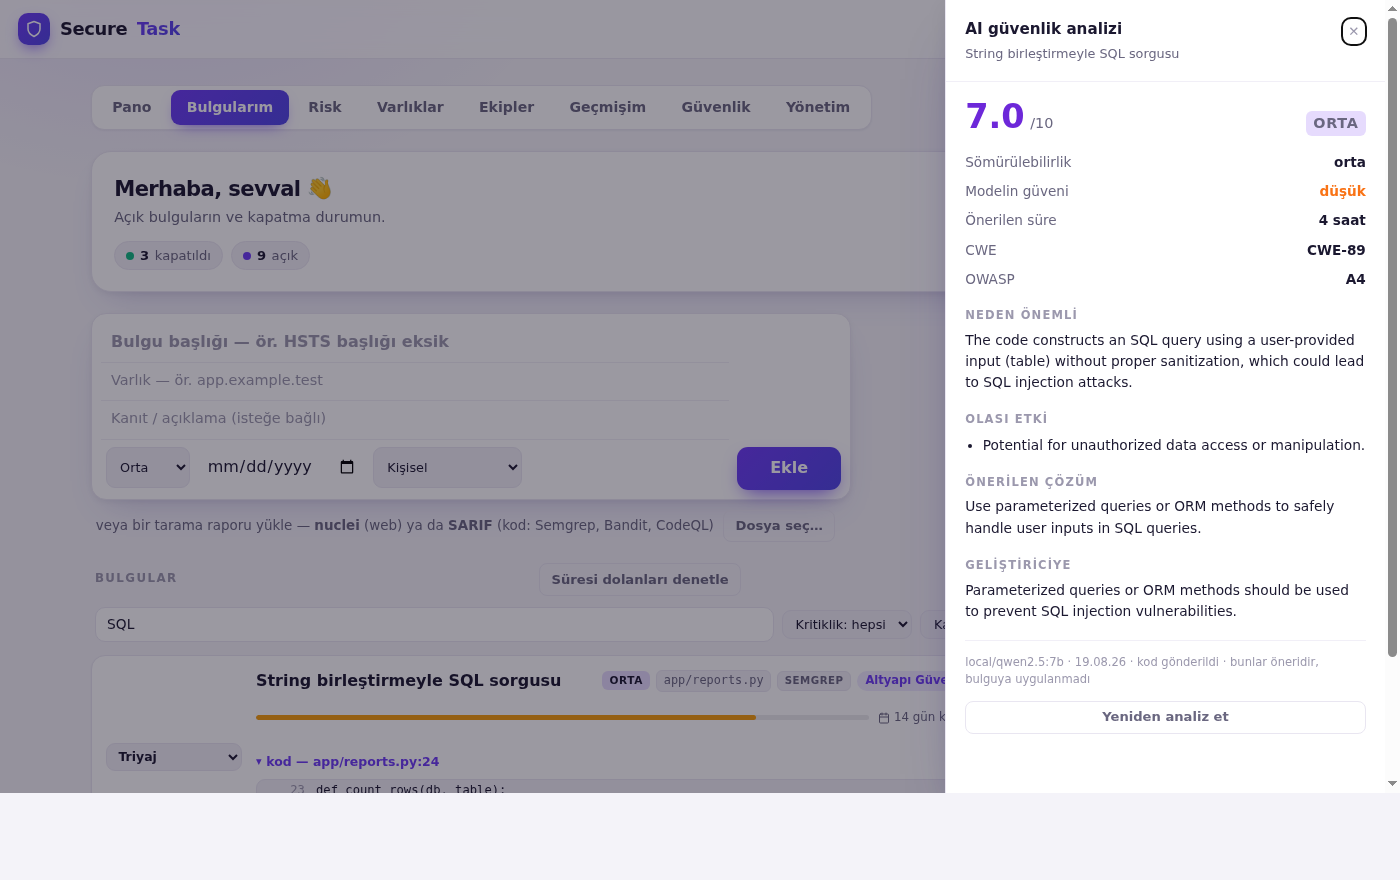
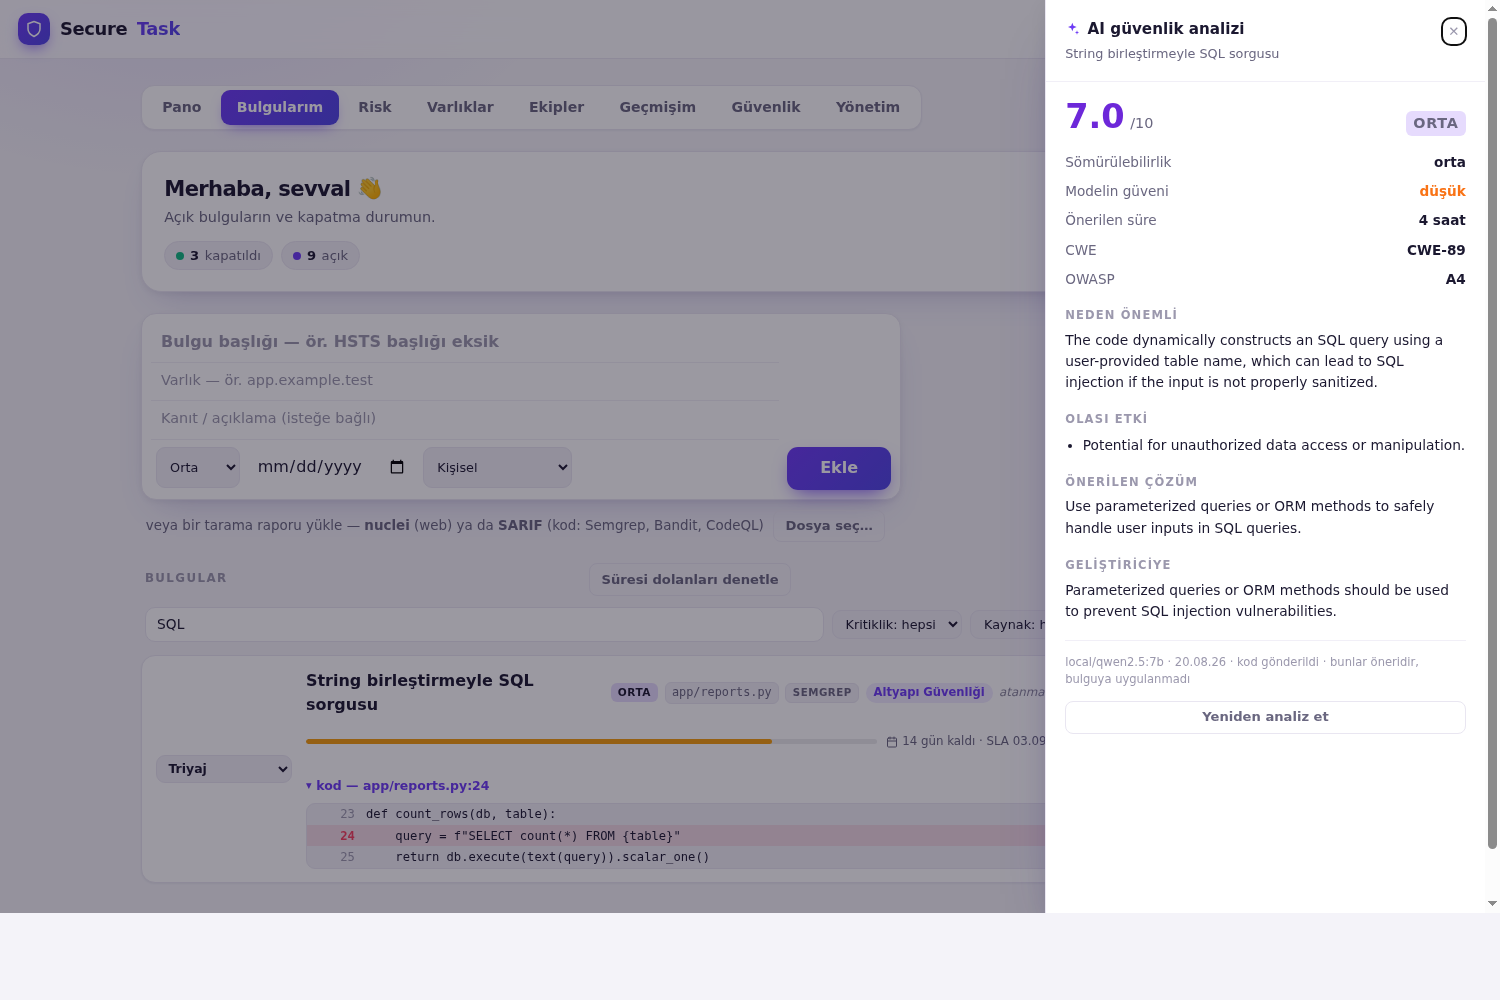
Draw the sparkle rather than typing it
The analysis mark was the character ✦, sitting next to a pencil and a bin that
are both inline SVG. It read as a different weight from its neighbours and did
not look like the thing it stands for.

It is an icon now, in the same shape as the others: a four-pointed star with a
smaller one beside it, filled rather than stroked because a hairline star turns
to mush at fifteen pixels, and taking currentColor so it stays whatever colour
the button is. The drawer heading carries the same mark, so the badge on the
row and the panel it opens are visibly the same feature.

diff --git a/app/static/app.js b/app/static/app.js
@@ -102,6 +102,10 @@ async function logout() {
 const PENCIL = '<svg viewBox="0 0 24 24" fill="none" stroke="currentColor" stroke-width="2" stroke-linecap="round" stroke-linejoin="round"><path d="M12 20h9"/><path d="M16.5 3.5a2.1 2.1 0 0 1 3 3L7 19l-4 1 1-4Z"/></svg>';
 const TRASH = '<svg viewBox="0 0 24 24" fill="none" stroke="currentColor" stroke-width="2" stroke-linecap="round" stroke-linejoin="round"><path d="M3 6h18M8 6V4a2 2 0 0 1 2-2h4a2 2 0 0 1 2 2v2m2 0v14a2 2 0 0 1-2 2H7a2 2 0 0 1-2-2V6"/></svg>';
 const CAL = '<svg viewBox="0 0 24 24" fill="none" stroke="currentColor" stroke-width="2" stroke-linecap="round" stroke-linejoin="round"><rect x="3" y="4" width="18" height="18" rx="2"/><path d="M16 2v4M8 2v4M3 10h18"/></svg>';
+// Parıltı: büyük bir dört köşeli yıldız ve yanında küçüğü. Diğerlerinin
+// aksine dolu çiziliyor — ince çizgili bir yıldız bu boyutta bulanıklaşıyor.
+// currentColor sayesinde düğmenin vurgu rengini alıyor.
+const SPARK = '<svg viewBox="0 0 24 24" fill="currentColor"><path d="M11 2.5l1.7 4.8 4.8 1.7-4.8 1.7L11 15.5 9.3 10.7 4.5 9l4.8-1.7z"/><path d="M18 14l.85 2.4 2.4.85-2.4.85L18 20.5l-.85-2.4-2.4-.85 2.4-.85z"/></svg>';
 const SEV_LABEL = { low: "Düşük", medium: "Orta", high: "Yüksek", critical: "Kritik" };
 const SEV_ORDER = { critical: 0, high: 1, medium: 2, low: 3 };
 const STATUS_LABEL = { open: "Açık", triaged: "Triyaj", fixed: "Düzeltildi", accepted_risk: "Risk kabul" };
@@ -691,7 +695,7 @@ function findingRow(f) {
       : "Bu bulguyu AI ile analiz et";
     const mark = document.createElement("span");
     mark.className = "ai-mark";
-    mark.textContent = "✦";
+    mark.innerHTML = SPARK;              // static icon markup only
     ai.appendChild(mark);
     ai.appendChild(document.createTextNode(done ? done.risk_score.toFixed(1) : "AI"));
     ai.onclick = () => analyzeFinding(f, false);
@@ -1770,6 +1774,7 @@ function renderRiskList(open) {
 
 document.getElementById("riskClear").onclick = () => { riskCell = null; renderRisk(); };
 
+document.getElementById("aiTitleMark").innerHTML = SPARK;   // static icon markup
 document.getElementById("aiClose").onclick = closeAiDrawer;
 document.getElementById("aiVeil").onclick = closeAiDrawer;
 addEventListener("keydown", e => { if (e.key === "Escape") closeAiDrawer(); });

diff --git a/app/static/app.css b/app/static/app.css
@@ -390,7 +390,9 @@
     display: flex; align-items: flex-start; justify-content: space-between; gap: .8rem;
     padding: 1.1rem 1.2rem; border-bottom: 1px solid var(--line-2);
   }
-  .drawer-head h2 { margin: 0; font-size: .95rem; }
+  .drawer-head h2 { margin: 0; font-size: .95rem; display: flex; align-items: center; gap: .4rem; }
+  .drawer-head h2 .ai-mark { display: inline-flex; color: var(--accent); }
+  .drawer-head h2 .ai-mark svg { width: 16px; height: 16px; display: block; }
   .drawer-sub { margin: .25rem 0 0; font-size: .8rem; color: var(--muted); }
   .drawer-body { padding: 1.1rem 1.2rem 2rem; overflow-y: auto; }
 
@@ -427,7 +429,8 @@
     color: var(--accent); border-color: color-mix(in srgb, var(--accent) 35%, var(--line));
     font-variant-numeric: tabular-nums;
   }
-  .ai-btn .ai-mark { font-size: .9rem; line-height: 1; }
+  .ai-btn .ai-mark { display: inline-flex; }
+  .ai-btn .ai-mark svg { width: 15px; height: 15px; display: block; }
   .ai-btn:hover { background: var(--accent-soft); }
   /* Analiz edilmiş satır skorunu taşıyor: listede hangi bulguya bakıldığı,
      tıklamadan görünüyor. */

diff --git a/app/static/index.html b/app/static/index.html
@@ -391,7 +391,7 @@
 <aside class="drawer hidden" id="aiDrawer" aria-labelledby="aiDrawerTitle" role="dialog" aria-modal="true">
   <div class="drawer-head">
     <div>
-      <h2 id="aiDrawerTitle">AI güvenlik analizi</h2>
+      <h2 id="aiDrawerTitle"><span class="ai-mark" id="aiTitleMark"></span>AI güvenlik analizi</h2>
       <p class="drawer-sub" id="aiDrawerSub"></p>
     </div>
     <button class="icon-btn" id="aiClose" type="button" title="Kapat" aria-label="Kapat">✕</button>
